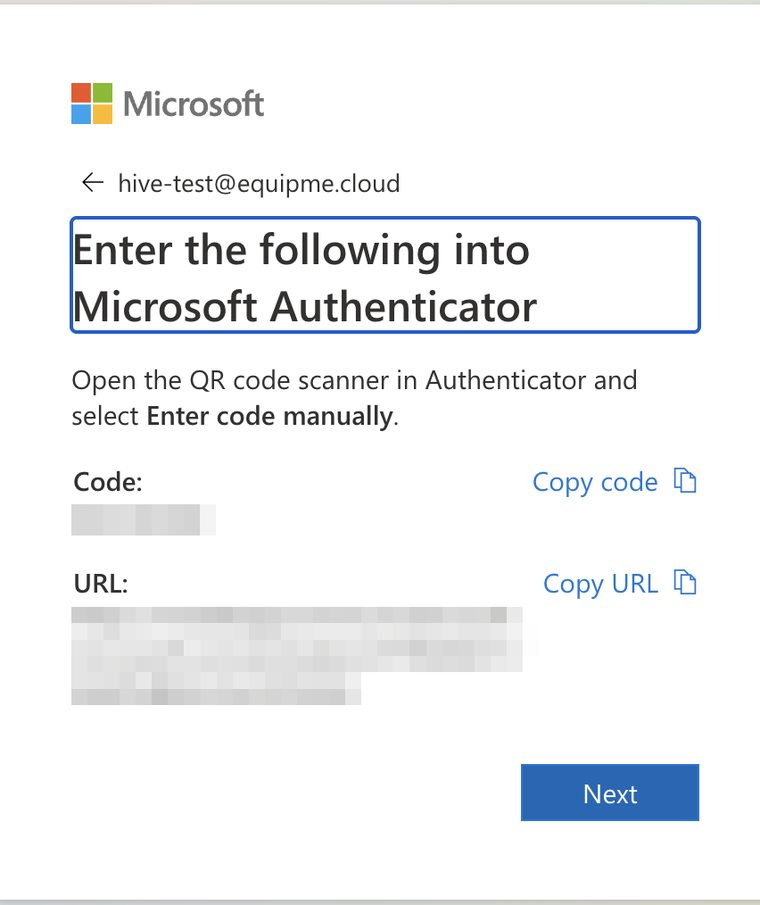
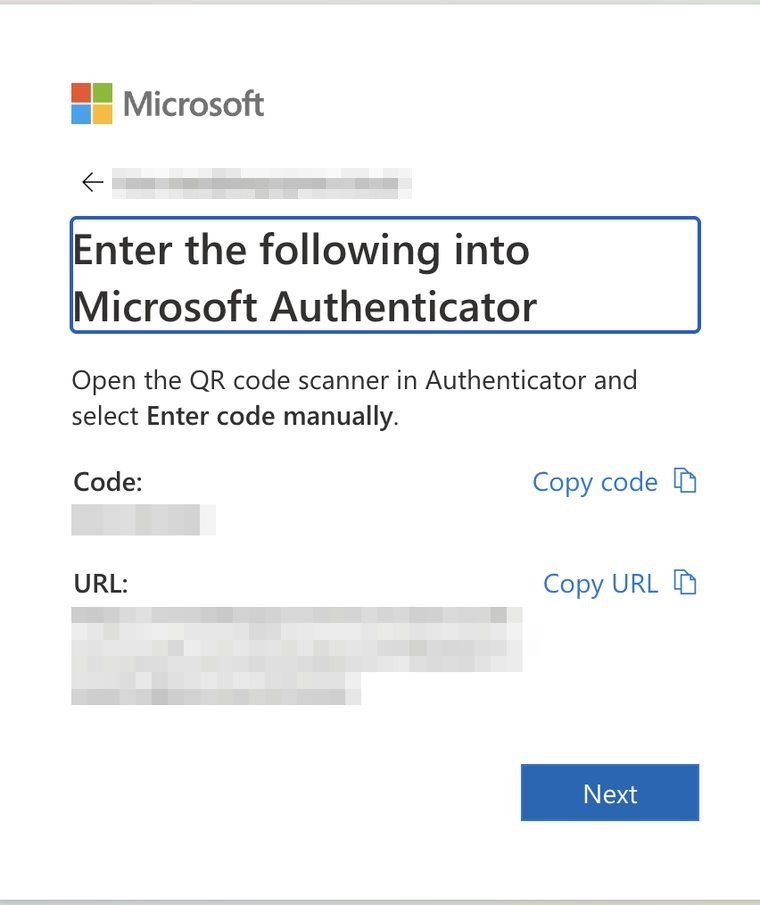
Support page: red rings on the screenshots, and a way back to the start
Every screenshot now carries a red ellipse over the one control the step
names — Enter code manually, Can't scan the QR code?, the two Copy
buttons, Work or school account, Set up 2-step verification, the
two-digit number, the timeout banner, the three password boxes. The ring
is a CSS overlay positioned in percentages, not painted into the file,
so one screenshot can point at a different control where another step
uses it.

Also in this commit: the masthead badge is a button that returns to step
1 without clearing the reader's choices; the "why does it spin"
explainer moved out of the head of step 5 and into item 6, where the
spin is actually handled; the one-phone route no longer tells the reader
to look at a computer during "Let's try it out"; and the test account
address is masked in the six screenshots that showed it, the way the QR
code and the code/URL values already were.

Claude-Session: https://claude.ai/code/session_016YUc8HExmgeu3sANJ7M37b

Changed region(s): [[0.1513, 0.1856, 0.5447, 0.2475]]

diff --git a/help/teams-setup.html b/help/teams-setup.html
@@ -49,6 +49,9 @@
     --warn-soft: #fdf0e0;
     --warn-line: #ecd2ab;
     --focus: #1d4a83;
+    /* Annotation red, used only for the rings drawn on screenshots. It keeps
+       the same value in dark mode: the screenshots stay light either way. */
+    --mark: #d92d20;
     --shadow: 0 1px 3px rgba(30,41,59,.07), 0 4px 14px rgba(30,41,59,.06);
   }
   @media (prefers-color-scheme: dark) {
@@ -93,6 +96,11 @@
     color: var(--accent-ink); background: var(--accent-soft); border: 1px solid var(--accent-soft-line);
     padding: 3px 11px; border-radius: 999px; margin-bottom: 11px;
   }
+  /* The masthead badge doubles as "take me back to the start" (Rick,
+     2026-09-22) — the reader's choices are kept, only the view returns. */
+  button.eyebrow { font-family: inherit; cursor: pointer; }
+  button.eyebrow:hover { background: var(--accent-soft-line); }
+  button.eyebrow:focus-visible { outline: 3px solid var(--focus); outline-offset: 3px; }
   .masthead { margin-bottom: 8px; }
   .sub { color: var(--ink-soft); margin-top: 9px; font-size: .97rem; max-width: 58ch; }
 
@@ -283,12 +291,24 @@
   ol.steps.inner { margin: 8px 0 0; padding-left: 0; }
   ol.steps.inner > li { margin-top: 10px; }
   .shot { margin: 10px 0 4px; }
+  /* A red ellipse drawn over the screenshot marks the one control the step is
+     talking about (Rick, 2026-09-22). The ring is an overlay, not baked into
+     the picture, so the same screenshot can point at a different control
+     where a different step uses it. Red is the annotation colour only —
+     warnings in the page stay amber. */
+  /* The width lives on the wrapper, not the image: the ring is positioned in
+     percentages of the wrapper, so the two boxes have to be the same size. */
+  .shot .pic { position: relative; display: block; width: min(100%, 420px); line-height: 0; }
   .shot img {
-    display: block; max-width: min(100%, 420px); height: auto; border: 1px solid var(--line);
+    display: block; width: 100%; height: auto; border: 1px solid var(--line);
     border-radius: 8px; box-shadow: var(--shadow); background: var(--surface);
   }
+  .shot .ring {
+    position: absolute; border: 3px solid var(--mark); border-radius: 50%;
+    pointer-events: none; box-shadow: 0 0 0 1px rgba(255, 255, 255, .7);
+  }
   .shot figcaption { font-size: .78rem; color: var(--ink-faint); margin-top: 5px; }
-  .why.inline .shot img { max-width: min(100%, 360px); }
+  .why.inline .shot .pic { width: min(100%, 360px); }
 
   @media (max-width: 480px) {
     .pastemap .pm-row { flex-direction: column; }
@@ -385,7 +405,7 @@
 
 <div class="wrap">
   <div class="masthead">
-    <span class="eyebrow">蜂巢帮助</span>
+    <button type="button" class="eyebrow" id="homeBtn" title="回到向导开头">蜂巢帮助</button>
     <h1>Teams 登录设置向导</h1>
   </div>
 
@@ -491,11 +511,6 @@
   <section class="card" data-step="5" hidden>
     <div class="step-head"><span class="step-num">第 5 步</span><h2>登录并绑定验证</h2></div>
     <p class="step-desc" id="s5desc"></p>
-
-    <details class="why" id="s5why" hidden>
-      <summary>安卓扫码为什么可能会转圈？（点开看一眼）</summary>
-      <p>扫码之后，验证器会去谷歌的推送通道登记。手机上有谷歌服务的，几秒就完成；<strong>没有的（国内销售的多数安卓机），可能就一直转圈</strong>。所以安卓先扫码试一下，转圈超过一分钟就改走「手动输入代码」——那条路不经过谷歌，绑定一样能完成。微软的文档也写明：中国大陆的安卓手机不支持推送通知。</p>
-    </details>
 
     <ol class="steps" id="s5steps"></ol>
     <div class="note plain" id="s5tip"></div>
@@ -703,6 +718,12 @@
   Array.prototype.forEach.call(document.querySelectorAll("[data-next]"), function (btn) {
     btn.addEventListener("click", function () { goTo(Number(btn.dataset.next)); });
   });
+
+  // The masthead badge is the way back to the top of the wizard (Rick,
+  // 2026-09-22). It returns to step 1; the phone and device already chosen
+  // stay chosen, so nobody loses their place by clicking it.
+  var homeBtn = document.getElementById("homeBtn");
+  if (homeBtn) homeBtn.addEventListener("click", function () { goTo(1); });
 
   // ---- step 1 ----
   var phoneChoicesEl = document.getElementById("phoneChoices");
@@ -927,9 +948,21 @@
   // A real screenshot from the 2026-09-22 walk-through (Rick, iPhone + Mac,
   // test account), cropped to the screen the reader is looking for. Expired
   // codes and the dead QR are pixelated; nothing but the test account shows.
-  function shot(file, alt, cap) {
-    return '<figure class="shot"><img src="/help/img/' + file + '" alt="' + alt + '" loading="lazy" decoding="async">' +
-      (cap ? '<figcaption>' + cap + '</figcaption>' : '') + '</figure>';
+  // rings: "left,top,width,height" in percent of the picture, one ellipse per
+  // group, several groups separated by ";". Percentages rather than pixels so
+  // the ring follows the image at every width.
+  function shot(file, alt, cap, rings) {
+    var marks = "";
+    if (rings) {
+      rings.split(";").forEach(function (r) {
+        var v = r.split(",");
+        marks += '<span class="ring" style="left:' + v[0] + '%;top:' + v[1] +
+          '%;width:' + v[2] + '%;height:' + v[3] + '%"></span>';
+      });
+    }
+    return '<figure class="shot"><span class="pic">' +
+      '<img src="/help/img/' + file + '" alt="' + alt + '" loading="lazy" decoding="async">' + marks +
+      '</span>' + (cap ? '<figcaption>' + cap + '</figcaption>' : '') + '</figure>';
   }
   function oops(summary, body) {
     return '<details class="why trouble inline"><summary>' + summary + '</summary>' + body + '</details>';
@@ -948,14 +981,21 @@
     var tip = document.getElementById("s5tip");
     var items = [];
     var android = isAndroid();
-    var why5 = document.getElementById("s5why");
-    if (why5) why5.hidden = !android;
+
+    // The "why does it spin" explainer lives inside the item where the spin is
+    // handled, not at the head of the step (Rick, 2026-09-22): the reader meets
+    // it when it matters, after the way out, not before they have seen the QR
+    // code at all.
+    var whySpin =
+      '<details class="why inline"><summary>安卓扫码为什么可能会转圈？（点开看一眼）</summary>' +
+      '<p>扫码之后，验证器会去谷歌的推送通道登记。手机上有谷歌服务的，几秒就完成；<strong>没有的（国内销售的多数安卓机），可能就一直转圈</strong>。所以安卓先扫码试一下，转圈超过一分钟就改走「手动输入代码」——那条路不经过谷歌，绑定一样能完成。微软的文档也写明：中国大陆的安卓手机不支持推送通知。</p>' +
+      '</details>';
 
     // ---- shared: sign in + first-time password ----
     var pwItem = '出现 <strong>「更新密码（Update your password）」</strong>——<strong>第一次登录都会有这一屏</strong>，是微软要求您把机构发的密码换成自己的。' +
       '第一格：粘贴机构发的密码；第二格和第三格：输入您<strong>自己设的新密码</strong>，两格一样。新密码至少 8 位，要有大写字母、小写字母和数字。→ 登录（Sign in）。' +
       '<strong>请把新密码记下来，以后登录都用它。</strong>' +
-      shot('pc-update-password.jpg', 'Update your password 页面：三个输入框', '第一格旧密码，第二、三格新密码') +
+      shot('pc-update-password.jpg', 'Update your password 页面：三个输入框', '第一格旧密码，第二、三格新密码', '0.5,43.5,99,40') +
       oops('如果提示密码不符合要求', '<p>换一个：长度 8 位以上，同时含大写字母、小写字母、数字，不要包含您的名字或账号。三格里第二、三格必须完全一样。</p>');
 
     var threeNext = '接下来三屏都只需点 <strong>下一步（Next）</strong>：「让我们保护你的帐户安全（Let\'s keep your account secure）」→「安装 Microsoft Authenticator（Install Microsoft Authenticator）」（验证器第 2 步已经装好，<strong>不用点商店图标</strong>）→「在应用中设置你的帐户（Set up your account in app）」。';
@@ -963,28 +1003,33 @@
     // ---- shared: the phone side, Authenticator ----
     var phonePrep =
       '<strong>先把手机准备好，电脑先别动。</strong>打开微软身份验证器 → 右上「+」→ 选 <strong>「工作或学校帐户（Work or school account）」</strong> → 弹出两个选项，<strong>选「扫描 QR 码（Scan QR code）」，不要选「登录（Sign in）」</strong> → 打开了扫码界面 → 点底部蓝色按钮 <strong>「手动输入代码（Enter code manually）」</strong> → 出现 代码（Code）和 URL 两个空格。<strong>手机就停在这一屏。</strong>' +
-      shot('ph-add-account.jpg', '验证器 Add account：选 Work or school account', '「+」之后选 工作或学校帐户（Work or school account）') +
-      shot('ph-enter-code-manually.jpg', '扫码界面底部的 Enter code manually 按钮', '扫码界面底部：手动输入代码（Enter code manually）') +
+      shot('ph-add-account.jpg', '验证器 Add account：选 Work or school account', '「+」之后选 工作或学校帐户（Work or school account）', '1,62,98,21') +
+      shot('ph-enter-code-manually.jpg', '扫码界面底部的 Enter code manually 按钮', '扫码界面底部：手动输入代码（Enter code manually）', '1.5,60,97,39') +
       oops('走错了？选了「登录（Sign in）」，被要求输账号密码', '<p>这是最容易走错的一步。<strong>不要在这里输账号密码</strong>，点左上角返回。' +
         '如果验证器的账户列表里已经出现了您的账号，点进去，选 <strong>「设置两步验证（Set up 2-step verification）」</strong>，同样能进到扫码界面，再点「手动输入代码（Enter code manually）」。</p>' +
-        shot('ph-account-2step.jpg', '账户页底部的 Set up 2-step verification', '账户页 → 设置两步验证（Set up 2-step verification）'));
+        shot('ph-account-2step.jpg', '账户页底部的 Set up 2-step verification', '账户页 → 设置两步验证（Set up 2-step verification）', '1,88.4,98,11.2'));
 
     var revealCode =
       '回到电脑，点二维码下面的 <strong>「无法扫描 QR 码？（Can\'t scan the QR code?）」</strong>。页面变成「在 Microsoft Authenticator 中输入以下内容（Enter the following into Microsoft Authenticator）」，给出 <strong>代码（Code）</strong> 和 <strong>URL（网址）</strong>，各配一个 <strong>复制（Copy）</strong> 按钮。' +
       '<strong>从这一刻起计时——这组代码几分钟就会过期，中途不要去做别的事。</strong>' +
-      shot('pc-scan-qr.jpg', 'Scan the QR code 页面，链接 Can\'t scan the QR code? 在二维码下方', '二维码下方：无法扫描 QR 码？（Can\'t scan the QR code?）') +
-      shot('pc-code-url.jpg', 'Enter the following into Microsoft Authenticator：Code、URL 和两个 Copy 按钮', '复制代码 / 复制 URL：用按钮，不用鼠标选');
+      shot('pc-scan-qr.jpg', 'Scan the QR code 页面，链接 Can\'t scan the QR code? 在二维码下方', '二维码下方：无法扫描 QR 码？（Can\'t scan the QR code?）', '2.5,77,50,7.4') +
+      shot('pc-code-url.jpg', 'Enter the following into Microsoft Authenticator：Code、URL 和两个 Copy 按钮', '复制代码 / 复制 URL：用按钮，不用鼠标选', '64.8,49.4,31.5,7.7;65.5,60.7,31.5,7.7');
 
     var transfer =
       '<strong>用 Copy 按钮把两样传到手机</strong>：点 <strong>复制代码（Copy code）</strong> → 粘贴到微信「文件传输助手」（电脑版或网页版）→ 点 <strong>复制 URL（Copy URL）</strong> → 粘贴到同一条消息的下一行 → 发送，<strong>一条消息两样一起发</strong>。手机微信里长按复制代码 → 切到验证器粘贴进<strong>第一格</strong>；再复制网址 → 粘贴进<strong>第二格</strong> → 确认。' +
       pasteMap('laptop') +
       oops('电脑上出现「Authenticator 注册已超时（Authenticator registration has timed out）」', '<p>代码过期了，<strong>旧的作废</strong>。点 <strong>下一步（Next）</strong>，页面会给出<strong>新的</strong> Code 和 URL，把手机里已经粘的两格也换成新的，再确认。这次先把微信在两边都开好，再点 Copy。</p>' +
-        shot('pc-timed-out.jpg', '超时提示：Authenticator registration has timed out', '看到这行就点「下一步（Next）」重新拿一组')) +
+        shot('pc-timed-out.jpg', '超时提示：Authenticator registration has timed out', '看到这行就点「下一步（Next）」重新拿一组', '5.8,13.2,89,34.6')) +
       oops('没有微信，或者只能手打', '<p>也可以把两样贴进给自己的邮件或备忘录同步；实在要手打，先按 <code>Ctrl</code> 和 <code>+</code> 放大网页，输完<strong>逐字核对</strong>再确认。代码是一串数字，网址很长——最容易错的是网址。</p>');
 
-    var tryOut =
-      '电脑出现 <strong>「让我们试一试（Let\'s try it out）」</strong> 和一个<strong>两位数</strong>；手机上验证器弹出「是否正在尝试登录？（Are you trying to sign in?）」→ 在框里输入电脑上的那个数 → <strong>是（Yes）</strong>。电脑显示「已添加 Authenticator（Authenticator Added）」→ <strong>完成（Done）</strong>，登录完成。' +
-      shot('pc-try-it-out.jpg', 'Let\'s try it out 页面，显示一个两位数', '把这个数输进手机上弹出的框');
+    // One phone and no computer means there is no "look at the other screen":
+    // the same screen shows the number and then the prompt (Rick's one-phone
+    // route, 2026-09-22), so the wording changes with the device.
+    var tryOut = state.device === "laptop"
+      ? '电脑出现 <strong>「让我们试一试（Let\'s try it out）」</strong> 和一个<strong>两位数</strong>；手机上验证器弹出「是否正在尝试登录？（Are you trying to sign in?）」→ 在框里输入电脑上的那个数 → <strong>是（Yes）</strong>。电脑显示「已添加 Authenticator（Authenticator Added）」→ <strong>完成（Done）</strong>，登录完成。' +
+        shot('pc-try-it-out.jpg', 'Let\'s try it out 页面，显示一个两位数', '把这个数输进手机上弹出的框', '40.9,66.3,17,10.6')
+      : '屏幕上出现 <strong>「让我们试一试（Let\'s try it out）」</strong> 和一个<strong>两位数</strong>，<strong>先把这个数记住</strong>；切到微软身份验证器，弹出「是否正在尝试登录？（Are you trying to sign in?）」→ 输入刚才那个数 → <strong>是（Yes）</strong>。切回 Teams，显示「已添加 Authenticator（Authenticator Added）」→ <strong>完成（Done）</strong>，登录完成。' +
+        shot('pc-try-it-out.jpg', 'Let\'s try it out 页面，显示一个两位数', '记住这个数，切到验证器输进弹出的框', '40.9,66.3,17,10.6');
 
     if (state.device === "laptop") {
       desc.innerHTML = "在刚打开的无痕窗口里操作。手机放在手边，绑定时要用。";
@@ -998,10 +1043,10 @@
         // the scan hangs. The fallback keeps the whole timed-transfer drill,
         // but as an exception exit, not the main road.
         items.push('出现 <strong>「扫描 QR 码（Scan the QR code）」</strong>。打开手机上的微软身份验证器 → 右上「+」→ <strong>「工作或学校帐户（Work or school account）」</strong> → <strong>「扫描 QR 码（Scan QR code）」（不要选「登录（Sign in）」）</strong> → 对准电脑屏幕扫一下。<strong>大多数手机到这里就绑定成功了</strong>——验证器里出现您的账号，就点电脑上的「下一步（Next）」。' +
-          shot('ph-add-account.jpg', '验证器 Add account：选 Work or school account', '「+」之后选 工作或学校帐户（Work or school account）') +
-          shot('pc-scan-qr.jpg', 'Scan the QR code 页面', '扫这个二维码；下面那行链接是备用路') +
+          shot('ph-add-account.jpg', '验证器 Add account：选 Work or school account', '「+」之后选 工作或学校帐户（Work or school account）', '1,62,98,21') +
+          shot('pc-scan-qr.jpg', 'Scan the QR code 页面', '扫这个二维码；下面那行链接是备用路', '26,26,48,38') +
           oops('选了「登录（Sign in）」，被要求输账号密码', '<p>不要在这里输，点左上角返回，重新「+」→ Work or school account → Scan QR code。如果账户列表里已经出现了您的账号，点进去 → <strong>「设置两步验证（Set up 2-step verification）」</strong> 也能进到扫码界面。</p>' +
-            shot('ph-account-2step.jpg', '账户页底部的 Set up 2-step verification', '账户页 → 设置两步验证（Set up 2-step verification）')));
+            shot('ph-account-2step.jpg', '账户页底部的 Set up 2-step verification', '账户页 → 设置两步验证（Set up 2-step verification）', '1,88.4,98,11.2')));
         items.push('<strong>扫码顺利的，直接看第 7 条。扫完一直转圈、一分钟没反应的：</strong>不用干等，也不是您的问题——这部手机没有谷歌服务，扫码走不通。改走下面的<strong>手动输入代码</strong>：' +
           '<details class="why trouble inline" open><summary>手动输入代码和网址（三小步，点开）</summary>' +
             '<ol class="steps inner">' +
@@ -1009,10 +1054,10 @@
               '<li><span class="txt">' + revealCode + '</span></li>' +
               '<li><span class="txt">' + transfer + '</span></li>' +
             '</ol>' +
-          '</details>');
+          '</details>' + whySpin);
       } else {
         items.push('出现 <strong>「扫描 QR 码（Scan the QR code）」</strong>。打开手机上的微软身份验证器 → 右上「+」→ <strong>「工作或学校帐户（Work or school account）」</strong> → <strong>「扫描 QR 码（Scan QR code）」</strong>（不要选「登录（Sign in）」）→ 对准电脑屏幕扫一下。' +
-          shot('ph-add-account.jpg', '验证器 Add account：选 Work or school account', '「+」之后选 工作或学校帐户（Work or school account）') +
+          shot('ph-add-account.jpg', '验证器 Add account：选 Work or school account', '「+」之后选 工作或学校帐户（Work or school account）', '1,62,98,21') +
           oops('扫完一直转圈，或者选错了「登录（Sign in）」', '<p>转圈：点电脑上的「无法扫描 QR 码？（Can\'t scan the QR code?）」，改用手动输入代码——方法见安卓那条路。选错 Sign in：点返回，重新「+」→ Work or school account → Scan QR code。</p>'));
         items.push('电脑上点 <strong>下一步（Next）</strong>。');
       }
@@ -1026,7 +1071,7 @@
         items.push('出现 <strong>「扫描 QR 码（Scan the QR code）」</strong>——同一部手机没法自己扫自己，点二维码下面的 <strong>「无法扫描 QR 码？（Can\'t scan the QR code?）」</strong>，出现 代码（Code）和 URL（网址），各有一个 <strong>复制（Copy）</strong> 按钮。<strong>从这一刻起计时，几分钟内完成。</strong>' + qrSketch('phone'));
         items.push('两样都在这部手机上，<strong>用复制（Copy）按钮复制，不用手打</strong>。要把它们分别粘贴到验证器的两个输入框里：' + pasteMap('phone'));
         items.push('<strong>先搬代码：</strong>点 <strong>复制代码（Copy code）</strong> → 切到微软身份验证器 → 「+」→ <strong>「工作或学校帐户（Work or school account）」</strong> → <strong>「扫描 QR 码（Scan QR code）」（不要选「登录（Sign in）」）</strong> → 底部 <strong>「手动输入代码（Enter code manually）」</strong> → 粘贴到<strong>第一格</strong>' +
-          shot('ph-enter-code-manually.jpg', '扫码界面底部的 Enter code manually 按钮', '扫码界面底部：手动输入代码（Enter code manually）') +
+          shot('ph-enter-code-manually.jpg', '扫码界面底部的 Enter code manually 按钮', '扫码界面底部：手动输入代码（Enter code manually）', '1.5,60,97,39') +
           oops('选了「登录（Sign in）」，被要求输账号密码', '<p>不要在这里输，点返回。如果账户列表里已经有您的账号，点进去 → <strong>「设置两步验证（Set up 2-step verification）」</strong> → 「手动输入代码（Enter code manually）」。</p>'));
         items.push('<strong>再搬网址：</strong>切回 Teams，点 <strong>复制 URL（Copy URL）</strong> → 切回验证器 → 粘贴到<strong>第二格</strong> → 确认。两格都填好才能绑定成功。' +
           oops('提示「Authenticator 注册已超时（Authenticator registration has timed out）」', '<p>代码过期了，旧的作废。点 <strong>下一步（Next）</strong> 拿<strong>新的</strong> Code 和 URL，把验证器里两格都换成新的再确认。</p>'));
